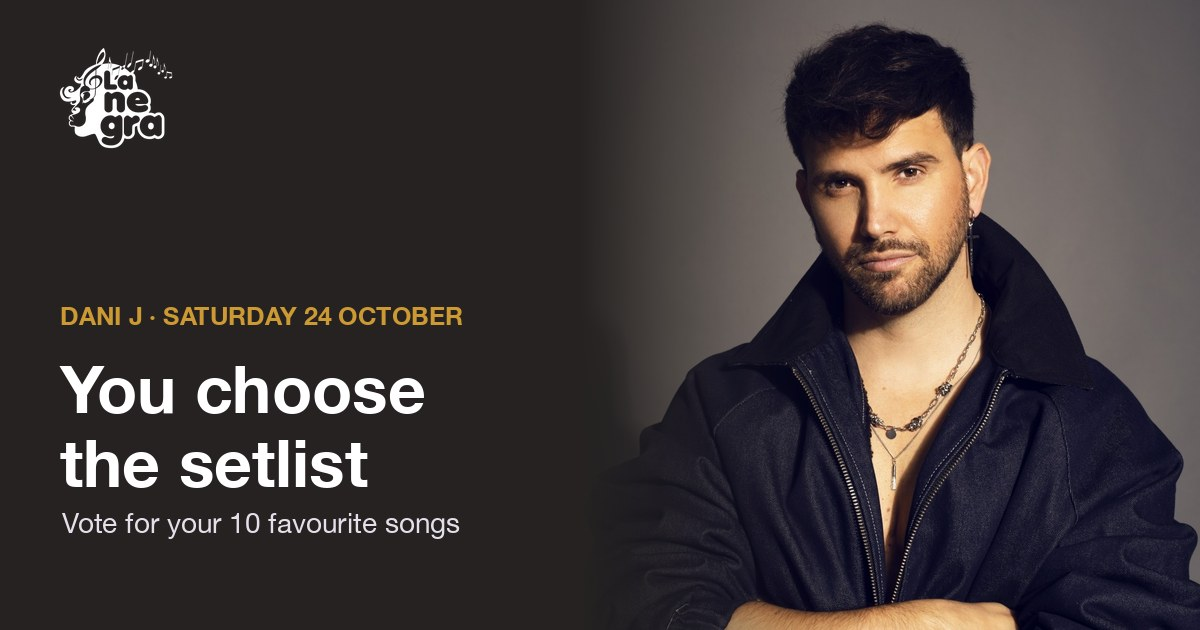
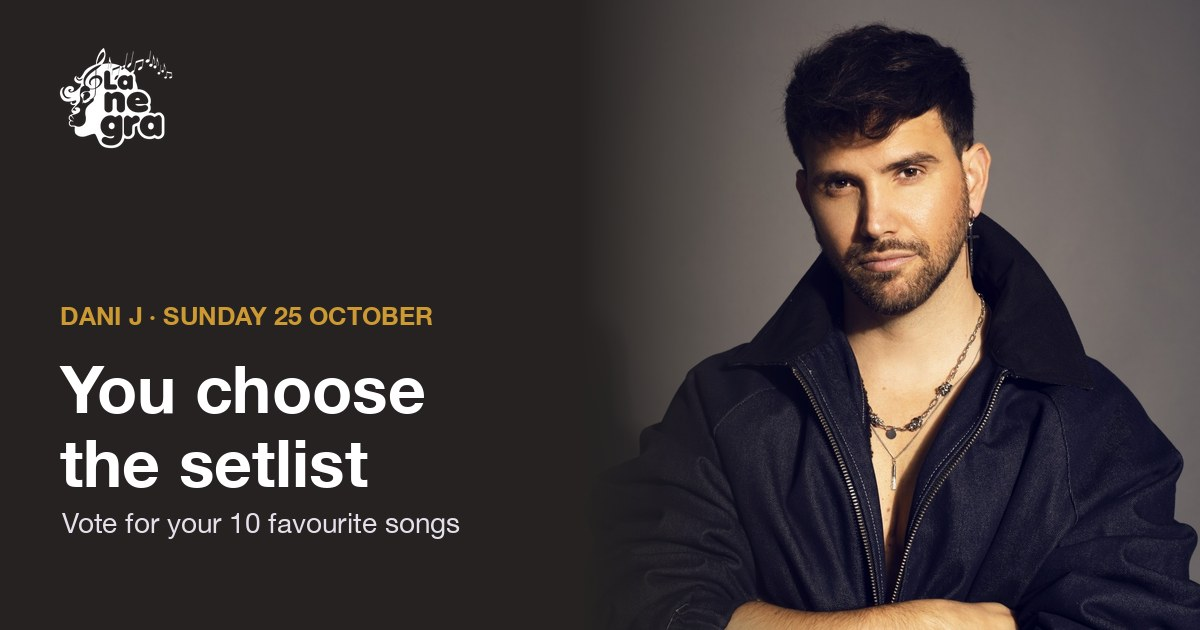
Dani J · bloque del concierto en la home y entradas en la votación.
CORRIGE UNA FECHA MÍA: el concierto es el DOMINGO 25 a las 22:00, no el
sábado 24. El 24 a las 21:00 es el cierre de la votación, y lo había
mezclado en el epígrafe de la página y en las tres imágenes de compartir.

En la home, tras «Crecemos bailando juntos», va un bloque del concierto con
la foto, el botón de comprar entradas y el enlace a votar el repertorio.

Al final de la página de votación va el widget de go&dance, fuera del
formulario para que se vea igual con la votación abierta, cerrada o ya
enviada. Las dos opciones y sus condiciones salen de la propia página de
entradas: Full Pass 189 € con el concierto incluido, o entrada suelta de
35 € que vale para el concierto y el social de después, solo mayores de 16.

Changed region(s): [[0.1542, 0.4825, 0.4008, 0.5429]]

diff --git a/src/data/danij.js b/src/data/danij.js
@@ -1,4 +1,4 @@
-// Votación del repertorio del concierto de Dani J (sábado 24 de octubre de 2026).
+// Votación del repertorio del concierto de Dani J (domingo 25 de octubre de 2026, 22:00).
 // El público elige sus 10 canciones y las ordena de mejor a peor.
 //
 // La lista viene del formulario que nos pasó la organización, en su mismo orden
@@ -238,7 +238,7 @@ export const I18N = {
     metaTitle: "Tú eliges el repertorio · Concierto de Dani J",
     metaDesc:
       "Vota tus 10 canciones favoritas de Dani J y ordénalas: las más votadas sonarán en el concierto del XV Mundial de Pasos Libres, en Calpe.",
-    eyebrow: "Dani J · Concierto del sábado 24",
+    eyebrow: "Dani J · Concierto del domingo 25",
     h1: "Tú eliges el repertorio",
     lead: "Imagina que pudieras elegir el repertorio del concierto. ¿Qué 10 canciones de Dani J no podrían faltar? Vota las tuyas y ordénalas de la que más te apetece a la que menos.",
     orden: "Están ordenadas de la más reciente a la más antigua.",
@@ -267,6 +267,17 @@ export const I18N = {
     cerradaTexto: "El plazo terminó el 24 de octubre a las 21:00. Nos vemos en el concierto.",
     plazo: "Se puede votar hasta el 24 de octubre a las 21:00 h.",
     maxAviso: "Ya tienes 10. Quita alguna si quieres cambiarla.",
+    concierto: {
+      eyebrow: "Domingo 25 de octubre · Gran Salón",
+      h2: "Dani J, en concierto",
+      lead: "El festival se cierra con el directo de Dani J a las 22:00, con una pre-party desde las 20:30. Tu Full Pass ya lo incluye; si solo quieres venir al concierto, hay entrada suelta por 35 € que da acceso también al social de después.",
+      btn: "Comprar entradas",
+      link: "Vota el repertorio del concierto",
+      nota: "Solo para mayores de 16 años.",
+      compraTitulo: "Entradas para el concierto",
+      compraLead: "El Full Pass (189 €) ya incluye el concierto. La entrada suelta son 35 € y vale para el concierto y el social de después.",
+      compraIr: "Ir a la página de entradas ↗",
+    },
     escuchar: "Escuchar un trozo de",
     cerrarPrev: "Cerrar la escucha",
   },
@@ -274,7 +285,7 @@ export const I18N = {
     metaTitle: "You choose the setlist · Dani J in concert",
     metaDesc:
       "Vote for your 10 favourite Dani J songs and rank them: the most voted ones will be played at the concert of the XV Pasos Libres World Championship, in Calpe.",
-    eyebrow: "Dani J · Saturday 24 concert",
+    eyebrow: "Dani J · Sunday 25 concert",
     h1: "You choose the setlist",
     lead: "Imagine you could pick the concert setlist. Which 10 Dani J songs simply have to be there? Vote for yours and rank them from the one you want most to the one you want least.",
     orden: "They are listed from the most recent to the oldest.",
@@ -303,6 +314,17 @@ export const I18N = {
     cerradaTexto: "The deadline was 24 October at 21:00. See you at the concert.",
     plazo: "You can vote until 24 October at 21:00 (Spanish time).",
     maxAviso: "You already have 10. Remove one if you want to swap it.",
+    concierto: {
+      eyebrow: "Sunday 25 October · Main Hall",
+      h2: "Dani J, live",
+      lead: "The festival closes with Dani J live at 22:00, with a pre-party from 20:30. Your Full Pass already includes it; if you only want the concert, there's a separate €35 ticket that also gets you into the social afterwards.",
+      btn: "Buy tickets",
+      link: "Vote for the concert setlist",
+      nota: "Over-16s only.",
+      compraTitulo: "Tickets for the concert",
+      compraLead: "The Full Pass (€189) already includes the concert. The separate ticket is €35 and covers the concert and the social afterwards.",
+      compraIr: "Go to the ticket page ↗",
+    },
     escuchar: "Preview",
     cerrarPrev: "Close the preview",
   },
@@ -310,7 +332,7 @@ export const I18N = {
     metaTitle: "Scegli tu la scaletta · Concerto di Dani J",
     metaDesc:
       "Vota le tue 10 canzoni preferite di Dani J e mettile in ordine: le più votate suoneranno al concerto del XV Mondiale di Pasos Libres, a Calpe.",
-    eyebrow: "Dani J · Concerto di sabato 24",
+    eyebrow: "Dani J · Concerto di domenica 25",
     h1: "Scegli tu la scaletta",
     lead: "Immagina di poter scegliere la scaletta del concerto. Quali 10 canzoni di Dani J non possono mancare? Vota le tue e mettile in ordine, dalla più desiderata alla meno.",
     orden: "Sono ordinate dalla più recente alla più vecchia.",
@@ -339,6 +361,17 @@ export const I18N = {
     cerradaTexto: "Il termine era il 24 ottobre alle 21:00. Ci vediamo al concerto.",
     plazo: "Si può votare fino al 24 ottobre alle 21:00 (ora spagnola).",
     maxAviso: "Ne hai già 10. Togline una se vuoi cambiarla.",
+    concierto: {
+      eyebrow: "Domenica 25 ottobre · Salone",
+      h2: "Dani J, in concerto",
+      lead: "Il festival si chiude con il live di Dani J alle 22:00, con un pre-party dalle 20:30. Il tuo Full Pass lo include già; se vuoi venire solo al concerto c'è il biglietto singolo da 35 €, che dà accesso anche al social successivo.",
+      btn: "Compra i biglietti",
+      link: "Vota la scaletta del concerto",
+      nota: "Solo per maggiori di 16 anni.",
+      compraTitulo: "Biglietti per il concerto",
+      compraLead: "Il Full Pass (189 €) include già il concerto. Il biglietto singolo costa 35 € e vale per il concerto e il social successivo.",
+      compraIr: "Vai alla pagina dei biglietti ↗",
+    },
     escuchar: "Ascolta un pezzo di",
     cerrarPrev: "Chiudi l'anteprima",
   },
@@ -348,6 +381,20 @@ export const I18N = {
 // se entiende igual en cualquiera de ellos.
 export const RUTA = { es: "/concierto-danij/", en: "/en/concierto-danij/", it: "/it/concierto-danij/" };
 export const RUTA_PROGRAMA = { es: "/talleres/", en: "/en/workshops/", it: "/it/workshops/" };
+
+// Entradas (go&dance). El Full Pass ya incluye el concierto; la entrada suelta
+// vale solo para el concierto y el social de después, y es para mayores de 16.
+export const ENTRADAS = {
+  // Página de entradas del evento, con las dos opciones
+  url: "https://www.goandance.com/es/evento/8885/la-negra-dance-festival-2026-xv-campeonato-mundial-de-pasos-libres-la-negra-salsa-v-campeonato-mundial-de-pasos-libres-la-negra-bachata",
+  // Widget embebido; el idioma del iframe va en la ruta (/es/, /en/)
+  iframe: (lang) =>
+    `https://www.goandance.com/${lang === "it" ? "es" : lang}/event-tickets/` +
+    "106ef4d5-c8be-4fce-8660-ea6854726bff" +
+    "?referer=https%3A%2F%2Fcampeonatopasoslibres.com%2Fconcierto-danij%2F",
+  precioConcierto: "35 €",
+  precioPase: "189 €",
+};
 
 // Imagen que sale al compartir el enlace (1200x630, una por idioma).
 // La genera scripts/og-concierto-danij.py a partir de la foto de prensa.

diff --git a/src/styles/proposal.css b/src/styles/proposal.css
@@ -489,3 +489,14 @@
     .prog-cta-row .p-btn { flex: 1 1 100%; text-align: center; justify-content: center; }
   }
 
+  /* CONCIERTO DE DANI J (home) */
+  .dj-home-grid { display: grid; grid-template-columns: 420px 1fr; gap: clamp(28px, 4vw, 56px); align-items: center; }
+  .dj-home-foto { border-radius: var(--p-radius); overflow: hidden; background: #14121a; }
+  .dj-home-foto img { display: block; width: 100%; aspect-ratio: 4 / 3.3; object-fit: cover; object-position: center 18%; }
+  .dj-home-ctas { display: flex; flex-wrap: wrap; align-items: center; gap: 14px 22px; margin-top: 24px; }
+  .dj-home-link { color: var(--gold-dark); font-weight: 700; text-decoration: underline; text-underline-offset: 3px; }
+  .dj-home-nota { margin: 12px 0 0 4px; }
+  @media (max-width: 860px) {
+    .dj-home-grid { grid-template-columns: 1fr; }
+    .dj-home-foto img { aspect-ratio: 16 / 10; }
+  }

diff --git a/scripts/og-concierto-danij.py b/scripts/og-concierto-danij.py
@@ -25,19 +25,19 @@ HELVETICA = "/System/Library/Fonts/HelveticaNeue.ttc"
 TEXTOS = {
     "es": {
         "archivo": "concierto-danij.jpg",
-        "epigrafe": "DANI J · SÁBADO 24 DE OCTUBRE",
+        "epigrafe": "DANI J · DOMINGO 25 DE OCTUBRE",
         "titulo": ["Tú eliges", "el repertorio"],
         "pie": "Vota tus 10 canciones favoritas",
     },
     "en": {
         "archivo": "concierto-danij-en.jpg",
-        "epigrafe": "DANI J · SATURDAY 24 OCTOBER",
+        "epigrafe": "DANI J · SUNDAY 25 OCTOBER",
         "titulo": ["You choose", "the setlist"],
         "pie": "Vote for your 10 favourite songs",
     },
     "it": {
         "archivo": "concierto-danij-it.jpg",
-        "epigrafe": "DANI J · SABATO 24 OTTOBRE",
+        "epigrafe": "DANI J · DOMENICA 25 OTTOBRE",
         "titulo": ["Scegli tu", "la scaletta"],
         "pie": "Vota le tue 10 canzoni preferite",
     },
